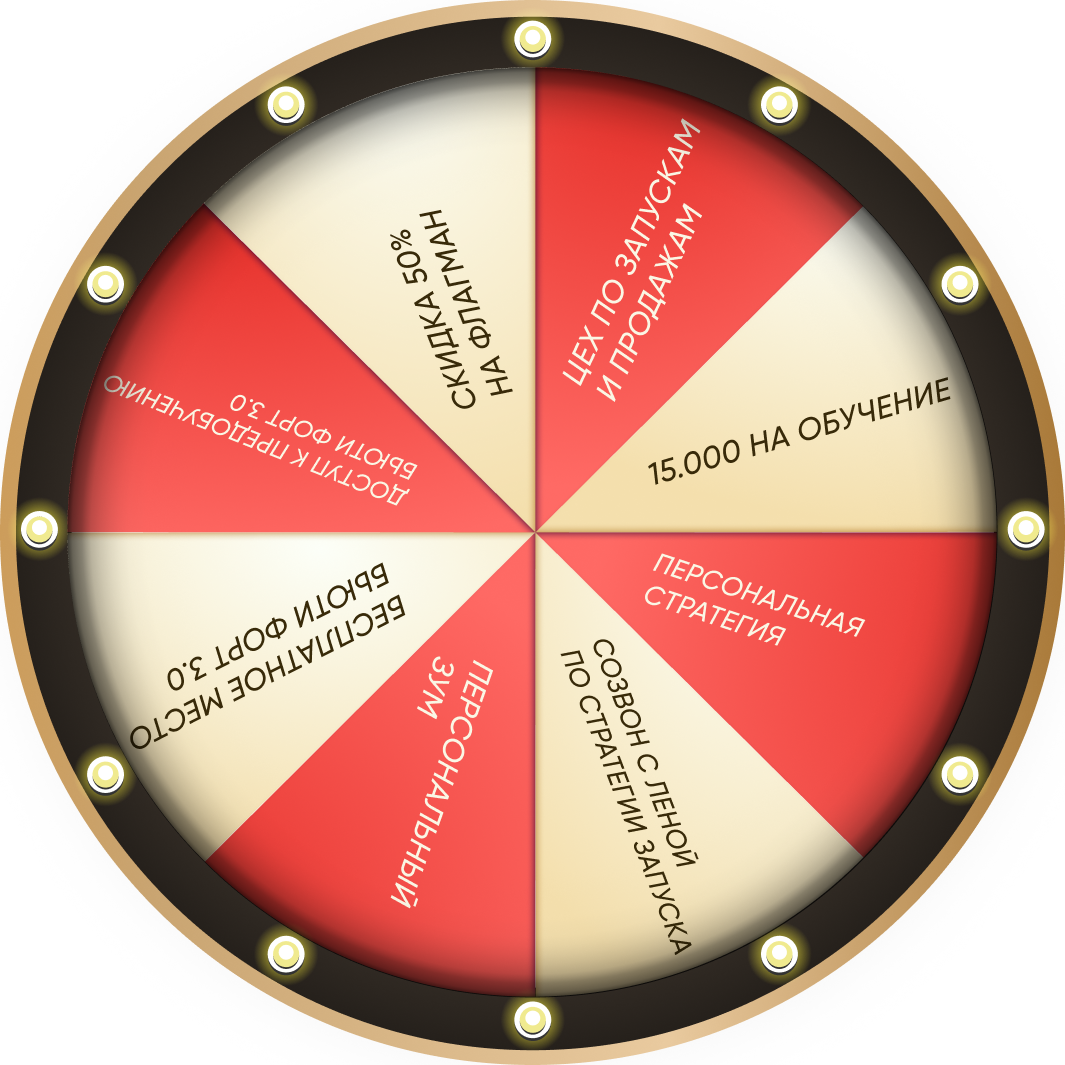
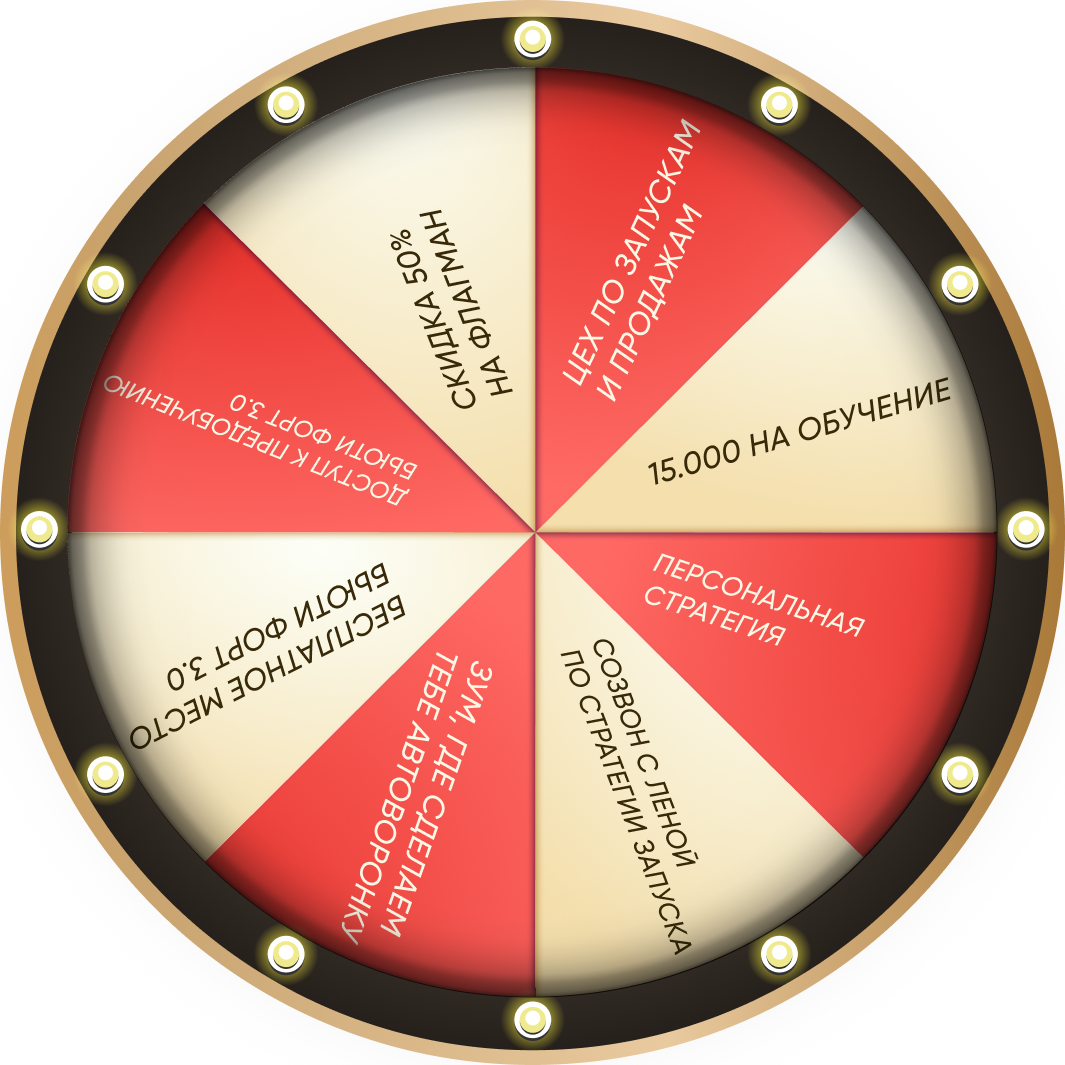
fix

Changed region(s): [[0.3099, 0.6197, 0.4648, 0.8986]]

diff --git a/main.js b/main.js
@@ -45,7 +45,7 @@
         },
         {
             text: '15.000 на обучение',
-            dropChance: 3,
+            dropChance: 20,
             id: 7917511,
         },
         {
@@ -59,7 +59,7 @@
             id: 7917515,
         },
         {
-            text: 'Персональный зум',
+            text: 'Зум, где сделаем тебе автоворонку',
             dropChance: 0.2,
             id: 7917516,
         },
@@ -75,7 +75,7 @@
         },
         {
             text: 'Скидка 50% на флагман',
-            dropChance: 1.2,
+            dropChance: 10,
             id: 7917521,
         },
     ];
